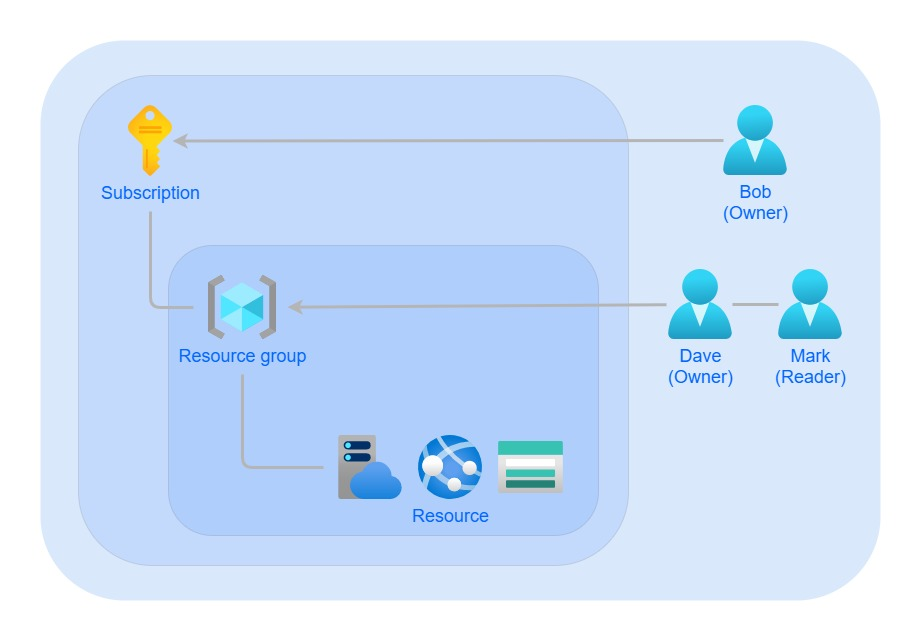
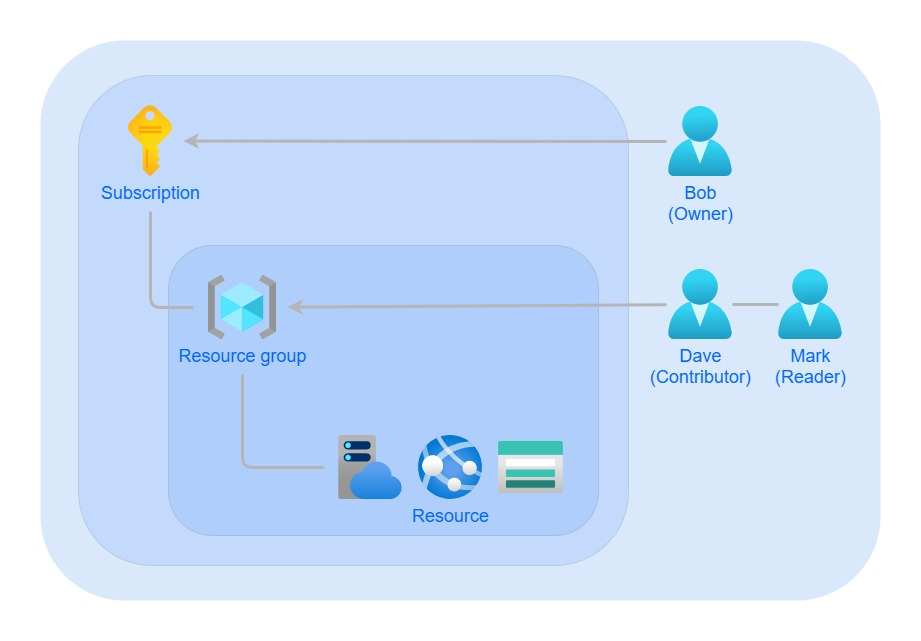
Revised

Changed region(s): [[0.6992, 0.156, 0.8512, 0.3432], [0.6992, 0.5616, 0.8208, 0.624], [0.1824, 0.1872, 0.2128, 0.2496]]

diff --git a/Image-Display/index.html b/Image-Display/index.html
@@ -1,0 +1,15 @@
+<!DOCTYPE html>
+<html lang="en">
+
+<head>
+    <meta charset="UTF-8">
+    <meta http-equiv="X-UA-Compatible" content="IE=edge">
+    <meta name="viewport" content="width=device-width, initial-scale=1.0">
+    <title>Images</title>
+</head>
+
+<body>
+    <img src="https://ejdteststorage.blob.core.windows.net/images/IMG_0091.jpeg">
+</body>
+
+</html>

diff --git a/README.md b/README.md
@@ -4,13 +4,19 @@ This is my solution to a Case Study in the AZ-104 course. Below is a visual repr
 
 ## User accounts
 
-Contoso Coffee required 3 Administrators, Bob, Dave and Mark. Based on the Case description i granted them the access they needed. The diagram below shows the roles and scope i assigned to the users.
+Contoso Coffee required 3 Administrators, Bob, Dave and Mark. Based on the Case description I granted them the access they needed. The diagram below shows the roles and scope I assigned to the users with Azure RBAC.
+
+* Bob is the owner of Contoso Coofee and therefore should be assigned the owner role scoped to the subscription. In this way he has full administration access to the subscription and the resources bound to it.
+
+* Dave is going to administer the website. Therefore he should be assigned the contributer role scoped to the resource group that contains the website. In this way he has full admin access to the resources related to the website, exept managing other users access to the resources.
+
+* Mark require read access to the resources. Therefore he should be assigned the reader role scoped to the resource group.
 
 ![User Diagram](./Diagrams/Useraccounts.jpg)
 
 ## Website hosting
 
-Contoso Coffee wants to host a globally accessible website. They want their users to be able to access a local server. Therefore i deployed two websites, one in East US for the US users and one in UK South for their UK users. To route the users to their local server i placed a Traffic Manager in front of the websites utulizing the Performance routing method.
+Contoso Coffee wants to host a globally accessible website. They want their users to be able to access a local server. Therefore I deployed two websites, one in East US for the US users and one in UK South for their UK users. To route the users to their local server I placed a Traffic Manager in front of the websites utulizing the Performance routing method.
 
 ![Website Diagram](./Diagrams/Websites.jpg)
 
